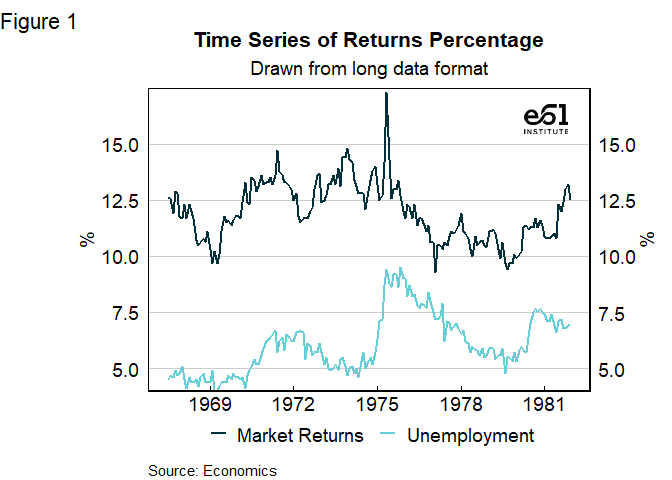
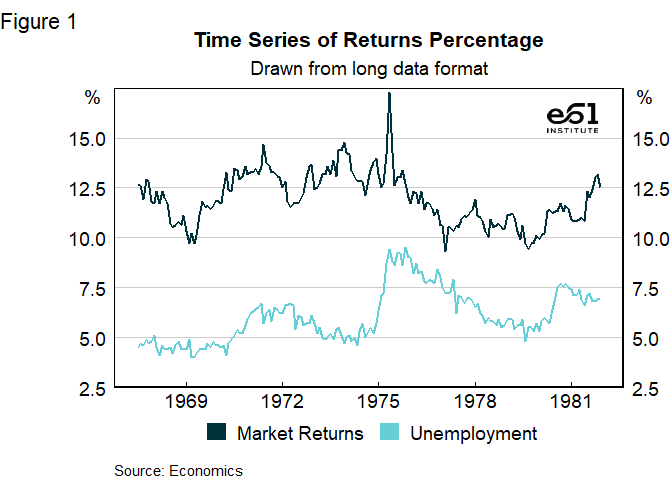
update readme to show off new functions

diff --git a/readme.md b/readme.md
@@ -58,16 +58,18 @@ p1 <- ggplot(mtcars2) +
     caption = "Source: 1974 Motor Trend US magazine.",
     tag = "Figure 1",
     x = "Weight (1000 lbs)",
-    y = "Fuel economy (mpg)",
+    y = "mpg",
     colour = "Gears"
   )
 
 
 p1 +
   theme_e61(legend = "bottom", legend_title = TRUE) + 
-  scale_y_continuous_e61() +
+  scale_y_continuous_e61(limits = c(0, 39)) +
   e61_colour_manual(n = 3) +
-  add_e61_logo()
+  add_e61_logo() + 
+  e61_y_title_top(-16) +
+  square_legend_symbols()
 ```
 
 ![](readme_files/figure-gfm/unnamed-chunk-2-1.png)<!-- -->
@@ -77,9 +79,10 @@ p1 +
 ``` r
 p1 +
   facet_grid(vs ~ am) +
-  theme_e61(panel_borders = TRUE, legend = "bottom", base_family = "Quattrocento Sans", legend_title = TRUE) +
+  theme_e61(panel_borders = TRUE, legend = "bottom", legend_title = TRUE) +
+  e61_y_title_top() +
   e61_colour_manual(n = 3) +
-  scale_y_continuous_e61() +
+  scale_y_continuous_e61(limits = c(10, 39)) +
   scale_x_continuous_e61()
 ```
 
@@ -96,12 +99,13 @@ g + geom_density(aes(fill = factor(cyl)), linetype = "blank", alpha = 0.8) +
     caption = "Source: mpg dataset",
     x = "City mileage",
     tag = "Figure 1",
-    y = "Density",
+    y = "density",
     fill = "No. cylinders"
   ) +
-  theme_e61(base_family = "Quattrocento Sans", legend = "bottom", legend_title = TRUE) +
-  scale_y_continuous_e61() +
+  theme_e61(legend = "bottom", legend_title = TRUE) +
+  scale_y_continuous_e61(limits = c(0, 0.6)) +
   scale_x_continuous_e61() +
+  e61_y_title_top(-18) +
   e61_fill_manual(n = 4) +
   e61_colour_manual(n = 4) +
   add_e61_logo()
@@ -122,21 +126,23 @@ lbls <- lubridate::year(brks)
 
 # plot
 ggplot(df, aes(x = date)) +
-  geom_line(aes(y = value, col = variable), size = 1) +
+  geom_line(aes(y = value, colour = variable), size = 1) +
   labs(
     title = "Time Series of Returns Percentage",
     subtitle = "Drawn from long data format",
     caption = "Source: Economics",
     tag = "Figure 1",
     x = NULL, y = "%",
-    color = NULL
+    colour = NULL
   ) + 
   scale_x_date(date_breaks = "3 years", date_labels = "%Y") +
-  scale_y_continuous_e61() +
+  scale_y_continuous_e61(limits = c(2.5, 17.5), breaks = seq(2.5, 15, 2.5)) +
   theme_e61(legend = "bottom") +
+  e61_y_title_top(-25) +
   e61_colour_manual(n = 2,
                     labels = c("Market Returns", "Unemployment")) +
-  add_e61_logo()
+  add_e61_logo() + 
+  square_legend_symbols()
 ```
 
 ![](readme_files/figure-gfm/unnamed-chunk-5-1.png)<!-- -->
@@ -154,9 +160,10 @@ ggplot(col_data, aes(x = index, y = hp, fill = hp)) +
     title = "Frivolous Filled Column Chart", 
     subtitle = "For the purpose of showing off the continuous colour palette",
     caption = "Source: e61 Institute",
-    x = NULL, y = NULL) +
+    x = NULL, y = "hp") +
   scale_y_continuous_e61() +
   theme_e61(legend = "bottom") +
+  e61_y_title_top(-23, fix_left = 5) +
   e61_fill_manual(discrete = FALSE)
 ```
 
